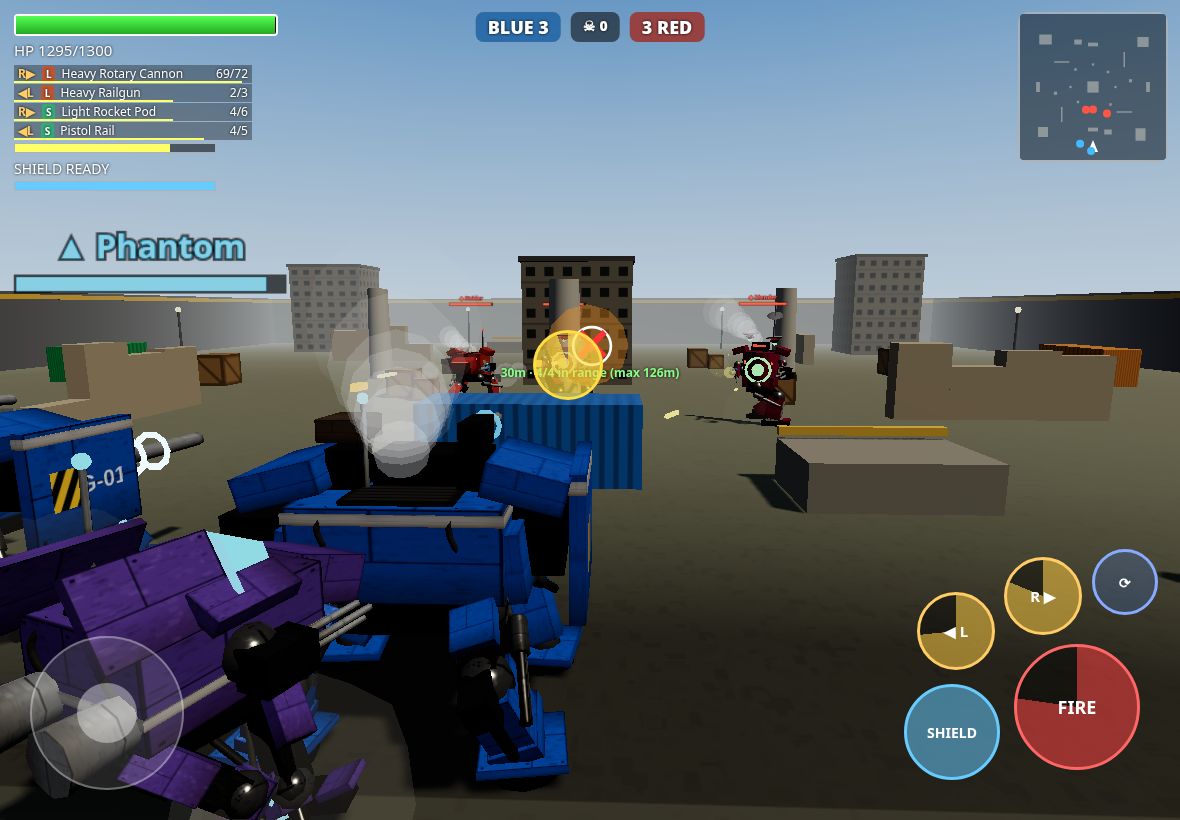
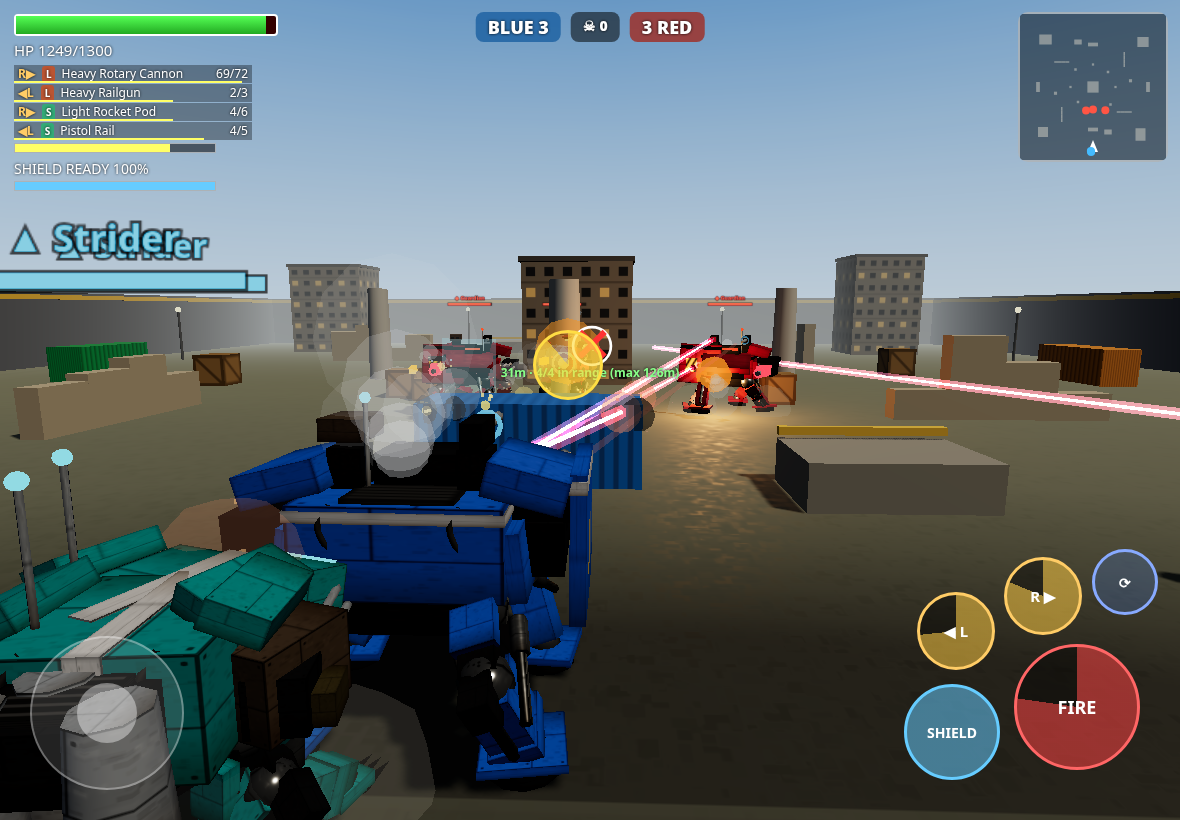
v14: higher Strider jump, longer swept Phantom dash, toggle Guardian shield arm, laser weapon family (S/M/L) with heat

diff --git a/game.js b/game.js
@@ -1,5 +1,5 @@
 import * as THREE from './three.module.js';
-// ======================= CONFIG (tune here) =======================
+/*v14 lasers+shield toggle*/ // ======================= CONFIG (tune here) =======================
 const CFG={
  cam:{dist:7,height:5.4,side:2.2,lookAhead:12,aimMaxYaw:0.6,aimMaxPitch:0.5,aimTurn:20,pitchLift:5,shakeStep:0.06,shakeLand:0.25,shakeHit:0.12,shakeDecay:7},
  gravity:26, legTurn:6,
@@ -10,11 +10,11 @@ const CFG={
  fx:{debris:8,smokeWreck:0.35,maxFx:260},
  mechs:{
   guardian:{name:'Guardian',hp:1300,speed:7.5,mass:1.3,color:0x3a6fd5,enemyColor:0xa8322a,
-   ability:'SHIELD',desc:'Heavy frame. Raise an energy shield that blocks all fire from the front. Moves at 50% speed while shielded.',
-   shield:{hp:700,dur:6,cd:9,slow:0.5,unfold:0.3}},
+   ability:'SHIELD',desc:'Heavy frame. Toggle: swing the shield arm into a guard that blocks all fire from the front until you lower it. Shield energy drains when hit and recharges while lowered. Moves at 50% speed while raised.',
+   shield:{hp:900,cd:6,slow:0.5,unfold:0.5,regen:75,regenDelay:1.5,min:0.25}},
   strider:{name:'Strider',hp:950,speed:10,mass:0.9,color:0x1f9a9a,enemyColor:0xc0452a,
    ability:'JUMP',desc:'Agile frame. Jump-jets launch you over cover and onto containers and platforms.',
-   jump:{vel:15,cd:4,airSpeed:1.25}},
+   jump:{vel:19.6,cd:4.5,airSpeed:1.3,airCtl:0.65}},
   mender:{name:'Mender',hp:850,speed:9,mass:1,color:0x3d8a3a,enemyColor:0x9a2f45,
    ability:'REGEN',desc:'Repair frame. After 3s without taking damage, auto-repairs 60 HP per second.',
    regen:{delay:3,rate:60}},
@@ -58,12 +58,12 @@ S.add(dl,dl.target);
 const SUN=new THREE.Vector3(30,50,20).normalize();
 // ======================= PROGRESSION: coins, upgrades, unlocks, paints =======================
 CFG.mechs.phantom={name:'Phantom',hp:900,speed:9.5,mass:0.95,color:0x6b4fa8,enemyColor:0x9a2a50,ability:'DASH',
- desc:'Stealth raider. Fires a burst of thrusters for a lightning-fast dash in the direction you are moving.',dash:{speed:34,dur:0.22,cd:5}};
+ desc:'Stealth raider. Fires a burst of thrusters for a lightning-fast dash in the direction you are moving.',dash:{speed:40,dur:0.32,cd:5}};
 CFG.weapons.shotgun={name:'Scattergun',desc:'Close-range shotgun: 9 heavy pellets per blast. Devastating up close, useless far away.',
  dmg:15,pellets:9,interval:0.8,range:28,mag:6,reload:3.2,spread:0.11,speed:150,aiBurst:1,kick:0.7,jolt:0.07};
 CFG.econ={win:100,loss:25,kill:20,capture:60,duelMul:{easy:0.7,normal:1,hard:1.5},
  upCost:[0,150,300,550,900],// cost to go from level i to i+1 (index = current level)
- locked:{phantom:800,shotgun:700,minigun_l:600,railgun_s:250,railgun_l:900,hornet_s:250,hornet_l:800,shotgun_s:400,shotgun_l:1000},paintCost:250,enemyScale:0.15};
+ locked:{phantom:800,shotgun:700,minigun_l:600,railgun_s:250,railgun_l:900,hornet_s:250,hornet_l:800,shotgun_s:400,shotgun_l:1000,laser_s:450,laser:750,laser_l:1200},paintCost:250,enemyScale:0.15};
 CFG.paints={default:{name:'Factory',col:null},desert:{name:'Desert Camo',col:0xb59a68,camo:[0x8a7048,0xd8c08a]},
  arctic:{name:'Arctic Camo',col:0xdfe6ea,camo:[0x9aa7b0,0xffffff]},jungle:{name:'Jungle Camo',col:0x4c6a34,camo:[0x2b3d1f,0x7a8a4a]},
  gold:{name:'Gold',col:0xd4a530,metal:0.9},stealth:{name:'Stealth Black',col:0x26262c,rough:0.8}};
@@ -75,11 +75,15 @@ const VAR={minigun:{S:['Light SMG','Compact rapid-fire SMG. Light and quick to r
  railgun:{S:['Pistol Rail','Light rail sidearm. Quick precise shots, modest punch.'],L:['Heavy Railgun','Artillery-grade rail. Crushing long-range slugs, slow cycle.']},
  hornet:{S:['Light Rocket Pod','Small lock-on rocket pod.'],L:['Missile Battery','Heavy lock-on battery. Big warheads, wide splash.']},
  shotgun:{S:['Scatter Pistol','Short-range sidearm shotgun.'],L:['Heavy Scattergun','Massive close-range blast.']}};
+CFG.weapons.laser={name:'Beam Laser',desc:'Continuous hitscan beam. Damage ticks while you hold fire; builds heat and locks out on overheat.',fam:'laser',size:'M',
+ dmg:9,interval:0.1,range:62,mag:1,reload:3,spread:0,speed:999,hitscan:true,beam:true,heat:0.25,cool:0.4,color:0xff3050,kick:0.03,jolt:0.004,aiBurst:22};
+VAR.laser={S:['Pulse Laser','Light beam sidearm. Low heat, quick cool-down.'],L:['Heavy Lance','Searing heavy beam. Huge damage and reach, runs hot.']};
 for(const f of Object.keys(VAR))for(const z of['S','L']){const b=CFG.weapons[f],q=SIZES[z],W=Object.assign({},b,{name:VAR[f][z][0],desc:VAR[f][z][1],fam:f,size:z});
  W.dmg=+(b.dmg*q.dmg).toFixed(1);W.interval=+(b.interval*q.int).toFixed(3);W.range=Math.round(b.range*q.range);W.reload=+(b.reload*q.reload).toFixed(2);W.mag=Math.max(2,Math.round(b.mag*q.mag));
- if(W.splash)W.splash=+(b.splash*(z==='L'?1.4:.75)).toFixed(1);if(W.spin)W.spin=b.spin*(z==='L'?1.6:.6);W.kick=b.kick*q.sc;W.jolt=b.jolt*q.dmg;CFG.weapons[f+'_'+z.toLowerCase()]=W;}
+ if(W.splash)W.splash=+(b.splash*(z==='L'?1.4:.75)).toFixed(1);if(W.spin)W.spin=b.spin*(z==='L'?1.6:.6);W.kick=b.kick*q.sc;W.jolt=b.jolt*q.dmg;if(W.beam){W.mag=1;W.interval=0.1;W.dmg=+(b.dmg*(z==='S'?.68:1.5)).toFixed(1);W.heat=z==='S'?.22:.3;W.cool=z==='S'?.5:.33;W.color=z==='S'?0xff60a0:0xff5020;W.aiBurst=z==='S'?26:18;}
+ CFG.weapons[f+'_'+z.toLowerCase()]=W;}
 // stable display order: family, then S/M/L
-{const o={};for(const f of['minigun','railgun','hornet','shotgun'])for(const k of[f+'_s',f,f+'_l'])o[k]=CFG.weapons[k];CFG.weapons=o;}
+{const o={};for(const f of['minigun','railgun','hornet','shotgun','laser'])for(const k of[f+'_s',f,f+'_l'])o[k]=CFG.weapons[k];CFG.weapons=o;}
 // hardpoints per mech (s = side: -1 left group, +1 right group). A slot takes its size or smaller.
 CFG.slots={guardian:[{z:'L',s:1,n:'Right arm'},{z:'L',s:-1,n:'Left arm'},{z:'S',s:1,n:'Right shoulder'},{z:'S',s:-1,n:'Left shoulder'}],
  strider:[{z:'M',s:1,n:'Right arm'},{z:'M',s:-1,n:'Left arm'}],mender:[{z:'M',s:1,n:'Right arm'},{z:'S',s:-1,n:'Left arm'}],phantom:[{z:'M',s:1,n:'Right arm'},{z:'S',s:-1,n:'Left arm'}]};
@@ -324,9 +328,10 @@ function mech(team,type,slots){const T=CFG.mechs[type],F=FRAMES[type];const col=
   add(top,boxG,dk,1.3,.5,1.0,0,tY+.25,.35);add(top,boxG,tm.visor,1.1,.14,.05,0,tY+.3,.86);vent=add(top,boxG,ventMat,1.6,.12,.8,0,tY+.01,-.7);
   for(const s of[-1,1]){const pv=grp(top,s*(tw[0]/2+.1),tY+.05,0);add(pv,boxG,m,1.2,.5,1.9,s*.15,.15,0,0,0,s*-.25);pads.push(pv);}
   // shield arm (left): shoulder joint + strut + heavy plate on a lag pivot
-  const sa=grp(top,-tw[0]/2-.35,cy+.2,.2);add(sa,jointG,jm,1.3,1.3,1.3,0,0,0);add(sa,boxG,dk,.35,.35,1.2,-.25,0,.2);
-  const sp=add(sa,boxG,m,.25,2.3,2.4,-.62,-.35,.45);add(sa,boxG,tm.stripe,.27,.2,2.42,-.62,.6,.45);if(hi){const dc=add(sa,planeG,decalMat(team,type),1.6,.8,1,-.76,-.45,.45,0,-Math.PI/2,0);}
-  arms.push({pv:sa,kind:'shield'});
+  const sa=grp(top,-tw[0]/2-.35,cy+.2,.2);add(sa,jointG,jm,1.3,1.3,1.3,0,0,0);add(sa,boxG,dk,.35,.35,1.2,-.25,0,.3);
+  const se=grp(sa,-.25,0,.9);add(se,jointG,jm,.9,.9,.9,0,0,0);add(se,boxG,dk,.3,.3,.6,-.2,0,-.1);
+  const sp=add(se,boxG,m,.25,2.3,2.4,-.37,-.35,-.45);add(se,boxG,tm.stripe,.27,.2,2.42,-.37,.6,-.45);if(hi){const dc=add(se,planeG,decalMat(team,type),1.6,.8,1,-.51,-.45,-.45,0,-Math.PI/2,0);}
+  arms.push({pv:sa,el:se,kind:'shield'});
   shield=add(top,shieldG,shieldMat,1.15,1,1.15,0,.8,0);shield.visible=false;}
  else if(type==='strider'){// hunched predator cockpit, forward nose, dorsal jet pack
   add(top,boxG,m,tw[0],tw[1],tw[2],0,cy,0);add(top,boxG,m,1.3,.7,1.1,0,cy-.05,tw[2]/2+.45,.25,0,0);add(top,boxG,tm.visor,1.0,.16,.05,0,cy+.12,tw[2]/2+1.0,.25,0,0);
@@ -355,7 +360,7 @@ function mech(team,type,slots){const T=CFG.mechs[type],F=FRAMES[type];const col=
  antP=new THREE.Group();antP.position.set(type==='mender'?.55:.6,tY+(type==='mender'?.5:.1),-.5);top.add(antP);add(antP,antG,MS.metal,1,type==='mender'?1.8:1,1,0,type==='mender'?1.1:.65,0);
  add(antP,jointG,tm.visor,.25,.25,.25,0,type==='mender'?2.25:1.3,0);if(type==='mender')add(antP,dishG,MS.metal,1,1,1,0,1.5,0,.5,0,0);
  // ---- weapon hardpoints (CFG.slots order); each mount builds its own weapon model, scaled by size ----
- const guns=[],flash=[],spinners=[],kickers=[];const MZ={minigun:2.0,railgun:3.0,hornet:.9,shotgun:1.7};let coil=null;
+ const guns=[],flash=[],spinners=[],kickers=[];const MZ={minigun:2.0,railgun:3.0,hornet:.9,shotgun:1.7,laser:2.2};let coil=null;
  if(typeof slots==='string')slots=CFG.slots[type].map(()=>slots);
  CFG.slots[type].forEach((sl,i)=>{const s=sl.s,k=slots[i]||CFG.defSlots[type][i],Wd=CFG.weapons[k],wpn=Wd.fam,z=Wd.size,sc=SIZES[z].sc,big=z==='L',sm=z==='S';let x,y,z0;
   if(type==='guardian'&&sl.z==='S'){x=s*.95;y=tY+.85;z0=-.25;add(top,boxG,dk,.5,.6,.5,x,tY+.35,z0);}
@@ -368,6 +373,9 @@ function mech(team,type,slots){const T=CFG.mechs[type],F=FRAMES[type];const col=
   else if(wpn==='railgun'){cm=new THREE.MeshStandardMaterial({color:0x2a5070,emissive:0x50c0ff,emissiveIntensity:.2,metalness:.5,roughness:.3});coil=coil||cm;
    add(kb,boxG,dk,.45,.6,1.3,0,0,.1);const bb=add(kb,barrelG,MS.metal,1.3,sm?1.4:2,1.3,0,0,sm?1.3:1.7);bb.rotation.x=Math.PI/2;for(const zz of(big?[1.0,1.5,2.0]:sm?[1.0]:[1.1,1.8]))add(kb,coilG,cm,1,1,1,0,0,zz);
    if(big){add(kb,boxG,dk,.7,.25,1.6,0,.42,.3);add(kb,boxG,lm,.08,.08,.5,0,.56,.3);}}
+  else if(wpn==='laser'){cm=new THREE.MeshStandardMaterial({color:0x501018,emissive:0xff3050,emissiveIntensity:.5,metalness:.4,roughness:.3});
+   add(kb,boxG,dk,.55,.55,1.2,0,0,.1);const bb=add(kb,barrelG,MS.metal,1.0,sm?1.2:1.6,1.0,0,0,sm?1.1:1.4);bb.rotation.x=Math.PI/2;
+   for(const zz of(big?[.8,1.25,1.7]:sm?[.9]:[.9,1.5]))add(kb,boxG,cm,.42,.42,.1,0,0,zz);add(kb,cylG,cm,.22,.15,.22,0,0,(MZ.laser-.05),Math.PI/2,0,0);if(big)add(kb,boxG,dk,.7,.2,1.4,0,.38,.2);}
   else if(wpn==='shotgun'){add(kb,boxG,dk,.6,.55,1.1,0,0,.1);const bx=big?[-.2,0,.2]:sm?[0]:[-.14,.14];for(const xx of bx){const bb=add(kb,barrelG,MS.metal,1.5,sm?.8:1.2,1.5,xx,0,sm?.8:1.1);bb.rotation.x=Math.PI/2;}add(kb,boxG,MS.metal,.5,.12,.5,0,-.3,.9);}
   else{const n=big?3:2,rows=sm?1:2;add(kb,boxG,M(0x665544),.45*n,.42*rows+.05,1.1,0,.1,.1);for(let r=0;r<rows;r++)for(let c=0;c<n;c++){const tb=add(kb,tubeG,MS.dark,1,1,1,(c-(n-1)/2)*.4,.1+(r-(rows-1)/2)*.4,.68);tb.rotation.x=Math.PI/2;}}
   const fl=add(pv,flashG,MS.flash,sc,sc,sc,0,0,(MZ[wpn]+.4)*sc);fl.rotation.x=-Math.PI/2;fl.visible=false;flash.push(fl);pv.userData={mz:MZ[wpn]*sc,spin:spn,coil:cm};top.add(pv);guns.push(pv);});
@@ -423,7 +431,7 @@ function animMech(u,dt){const G=CFG.gait,p=u.g.position,v=u.vel,sp=Math.hypot(v.
  const ca=Math.cos(u.tYaw),sa=Math.sin(u.tYaw),ax=u.acc.x*ca-u.acc.z*sa,az=u.acc.x*sa+u.acc.z*ca;
  u.jgV.x+=(-90*u.jg.x-7*u.jgV.x-ax*0.4-u.tYawV*1.5)*dt;u.jgV.z+=(-90*u.jg.z-7*u.jgV.z+az*0.4+u.dip*3)*dt;u.jg.x+=u.jgV.x*dt;u.jg.z+=u.jgV.z*dt;
  u.antP.rotation.set(u.jg.z*0.8,0,u.jg.x*0.8);for(const pd of u.pads)pd.rotation.set(u.jg.z*0.3,u.jg.x*0.25,0);
- u.armT=(u.armT||0)+dt;for(const a of u.arms){if(a.kind==='shield'){a.pv.rotation.set(u.jg.z*0.5-u.shA*0.4,u.jg.x*0.4+u.shA*0.5,u.jg.x*0.2);continue;}
+ u.armT=(u.armT||0)+dt;for(const a of u.arms){if(a.kind==='shield'){const e=u.shA*u.shA*(3-2*u.shA);a.pv.rotation.set(u.jg.z*0.5-e*0.2,u.jg.x*0.4+e*1.2,u.jg.x*0.2-e*.05);a.el.rotation.set(0,e*0.45,0);continue;}
   const w=u.armT*1.6+a.s;a.sh.rotation.set(-.35+Math.sin(w)*.25+u.jg.z*.6,a.s*(.35+Math.sin(w*.7)*.2)+u.jg.x*.5,0);a.el.rotation.set(.7+Math.sin(w*1.3)*.35,-a.s*.4,0);a.tool.rotation.z+=dt*8;
   a.tl.visible=Math.sin(w*5)>0;}
  for(const d of u.drones){const t=u.armT*1.3+d.ph,dg=d.g;d.p.set(Math.cos(t)*2.4,4.6+Math.sin(t*2)*.35,Math.sin(t)*2.4);dg.position.x+=(d.p.x-dg.position.x)*Math.min(1,dt*4);dg.position.y+=(d.p.y-dg.position.y)*Math.min(1,dt*4);dg.position.z+=(d.p.z-dg.position.z)*Math.min(1,dt*4);
@@ -434,10 +442,10 @@ function animMech(u,dt){const G=CFG.gait,p=u.g.position,v=u.vel,sp=Math.hypot(v.
  for(const w of u.ws){if(w.spinner)w.spinner.rotation.z+=dt*35*w.spin;if(w.coil){const ch=w.reload?0:Math.max(0,1-w.fireCd/w.W.interval);w.coil.emissiveIntensity=0.15+3*ch*ch;}}
  if(u.ventT>0){u.ventT-=dt;if(Math.random()<.5){u.vent.getWorldPosition(_w);fx(_w,.5,0xdde4ea,{vy:3.5,grow:2.5,life:.8,op:.45});}}
  if(u.flashT>0){u.flashT-=dt;if(u.flashT<=0)u.flash.forEach(f=>f.visible=false);}
- for(const j of u.jets){j.visible=(u.air&&u.vy>-4)||u.dashT>0;j.scale.y=1.2+Math.random()*.8;}
+ for(const j of u.jets){j.visible=(u.air&&u.vy>-4)||u.dashT>0;j.scale.y=(u.dashT>0?2.2:1.2)+Math.random()*(u.dashT>0?1.4:.8);j.scale.x=j.scale.z=u.dashT>0?1.5:1;}
  if(u.air&&u.vy>-4&&u.jets.length&&Math.random()<.6){u.jets[0].getWorldPosition(_w);fx(_w,.5,0xffaa55,{vy:-6,grow:2,life:.35,op:.7});}
  // shield unfold/retract
- if(u.shield){const t=u.shieldOn?1:0,r=1/u.T.shield.unfold;u.shA+=Math.sign(t-u.shA)*Math.min(Math.abs(t-u.shA),r*dt);u.shield.visible=u.shA>0.02;u.shield.scale.set(Math.max(.05,u.shA),0.25+0.75*u.shA,Math.max(.05,u.shA));}
+ if(u.shield){const t=u.shieldOn?1:0,r=1/u.T.shield.unfold;u.shA+=Math.sign(t-u.shA)*Math.min(Math.abs(t-u.shA),r*dt);u.shUp=u.shieldOn&&u.shA>=1;u.shG=(u.shG||0)+((u.shUp?1:0)-(u.shG||0))*Math.min(1,dt*10);u.shield.visible=u.shG>0.03;u.shield.scale.set(Math.max(.05,u.shG),0.25+0.75*u.shG,Math.max(.05,u.shG));}
  if(u.hp<u.max*.35){u.smokeT-=dt;if(u.smokeT<=0){u.smokeT=.15;u.top.getWorldPosition(_w);_w.y+=1.5;fx(_w,.6,0x333333,{vy:3,grow:2.5,life:1.4,op:.6});}}
  if(u.plate)updPlate(u);}
 function footstep(u,f){if(FX.length<CFG.fx.maxFx*.8)fx(_w.set(f.x,f.y+.2,f.z),.9*(u.T.mass||1),0x9a927e,{grow:2.2,life:.5,op:.45});
@@ -472,7 +480,7 @@ let settings={mode:'team',diff:'normal',gfx:'high',map:'random'};try{Object.assi
 function saveLoadout(){try{loadout.weapon=slotsOf(loadout.mech)[0];localStorage.setItem(LS,JSON.stringify(loadout));localStorage.setItem(LS2,JSON.stringify(settings));}catch(e){}}
 function makeUnit(team,type,slots,prof){if(typeof slots==='string')slots=CFG.slots[type].map(sl=>adapt(slots,sl,false));const me=team==='b'&&!prof,T=me?upMech(type):CFG.mechs[type];let pr=prof?Object.assign({},CFG.diff[prof]):null;
  if(pr&&team==='r'){const k=1+CFG.econ.enemyScale*progress();pr.hpMul*=k;pr.dmgMul*=k;pr.scale=k;}const u=mech(team,type,slots);
- u.ws=slots.map((k,i)=>{const W=me?upWpn(k):CFG.weapons[k],gd=u.guns[i].userData;return {k,W,gi:i,s:CFG.slots[type][i].s,ammo:W.mag,reload:0,fireCd:0,spin:0,burst:0,cd:Math.random()*1.5,spinner:gd.spin,coil:gd.coil};});
+ u.ws=slots.map((k,i)=>{const W=me?upWpn(k):CFG.weapons[k],gd=u.guns[i].userData;return {k,W,gi:i,s:CFG.slots[type][i].s,heat:0,beamT:0,ammo:W.mag,reload:0,fireCd:0,spin:0,burst:0,cd:Math.random()*1.5,spinner:gd.spin,coil:gd.coil};});
  const pw=u.ws.slice().sort((a,b)=>SIZES[b.W.size].r-SIZES[a.W.size].r||b.W.range-a.W.range)[0].W,wpn=slots[0];
  Object.assign(u,{team,type,wpn,T,W:pw,prof:pr,alive:true,hp:T.hp*(pr?pr.hpMul:1),speed:T.speed*(pr?pr.speedMul:1)*weightMul(type,slots),
   shieldOn:false,shA:0,shieldHP:T.shield?T.shield.hp:0,shieldT:0,abCd:0,vy:0,air:false,lastHit:-99,lockT:0,lockTgt:null,cd:1+Math.random()*2,burst:0,think:0,goal:null,
@@ -540,15 +548,15 @@ addEventListener('touchstart',unlockAudio,{passive:true});addEventListener('mous
 function sfx(k){if(!AC||AC.state!=='running')return;const t=AC.currentTime,o=AC.createOscillator(),g=AC.createGain();o.type='sine';const big=k==='boom';
  o.frequency.setValueAtTime(big?90:70,t);o.frequency.exponentialRampToValueAtTime(big?30:38,t+(big?.6:.18));g.gain.setValueAtTime(big?.5:.22,t);g.gain.exponentialRampToValueAtTime(.001,t+(big?.7:.2));o.connect(g).connect(AC.destination);o.start(t);o.stop(t+(big?.75:.22));}
 function muzzle(u,i){u.flash[i].visible=true;u.flash[i].rotation.z=Math.random()*3;u.flashT=.05;const p=new THREE.Vector3();u.guns[i].updateMatrixWorld(true);return u.guns[i].localToWorld(p.set(0,0,u.guns[i].userData.mz||u.mz));}
-function fireWeapon(u,w,aimPt,homing){if(u===P)STATS.shots++;const W=w.W,pr=u.prof;w.fireCd=W.interval*(pr?pr.fireMul:1)/(W.spin?Math.max(.3,w.spin):1);w.ammo--;
+function fireWeapon(u,w,aimPt,homing){if(w.W.beam)return fireBeam(u,w,aimPt);if(u===P)STATS.shots++;const W=w.W,pr=u.prof;w.fireCd=W.interval*(pr?pr.fireMul:1)/(W.spin?Math.max(.3,w.spin):1);w.ammo--;
  const gi=w.gi,f=muzzle(u,gi);const d=aimPt.clone().sub(f).normalize();
  const s=(W.pellets?0:W.spread)+(pr?pr.spread:0);d.x+=(Math.random()-.5)*s;d.y+=(Math.random()-.5)*s*.6;d.z+=(Math.random()-.5)*s;d.normalize();
  u.kick[gi]=Math.min(1,u.kick[gi]+W.kick);u.jolt=Math.min(.12,u.jolt+W.jolt);if(W.fam==='railgun')u.ventT=.7;
  if(u===P){flashLight(f,W.fam==='railgun'?4:1.5);shake(W.jolt*2);}
  for(let n=0;n<(W.pellets||1);n++){const dd=n?d.clone().add(new THREE.Vector3((Math.random()-.5)*W.spread,(Math.random()-.5)*W.spread*.5,(Math.random()-.5)*W.spread)).normalize():d;shoot(f,dd,u,homing,W);}if(w.ammo<=0)w.reload=W.reload;}
 function frontal(u,pos){const p=u.g.position,dx=pos.x-p.x,dz=pos.z-p.z,l=Math.hypot(dx,dz)||1;return (dx*Math.sin(u.tYaw)+dz*Math.cos(u.tYaw))/l>0.25;}
-function dropShield(u){if(!u.shieldOn)return;u.shieldOn=false;u.abCd=u.T.shield.cd;}
-function hurt(u,d,pos,src){if(!u||!u.alive)return;if(u.shieldOn&&pos&&frontal(u,pos)){u.shieldHP-=d;sparks(pos,0x80e0ff);if(u.shieldHP<=0)dropShield(u);return;}
+function dropShield(u,broken){if(!u.shieldOn)return;u.shieldOn=false;u.abCd=broken?u.T.shield.cd:Math.max(u.abCd,.4);}
+function hurt(u,d,pos,src){if(!u||!u.alive)return;if(u.shieldOn&&u.shA>=1&&pos&&frontal(u,pos)){u.shieldHP-=d;u.shHit=clock;if(Math.random()<.5||d>20)sparks(pos,0x80e0ff);if(u.shieldHP<=0){u.shieldHP=0;dropShield(u,true);}return;}
  u.hp-=d;u.lastHit=clock;if(src)u.lastAtt=src;const H=CFG.hitReact;
  if(pos){const p=u.g.position,dx=pos.x-p.x,dz=pos.z-p.z,c=Math.cos(u.tYaw),s=Math.sin(u.tYaw),lz=dx*s+dz*c,lx=dx*c-dz*s,l=Math.hypot(lx,lz)||1,k=Math.min(H.maxFlinch,d*H.flinch);
   u.fl.x+=lz/l*k;u.fl.z+=-lx/l*k;}// torso tips away from the impact
@@ -559,23 +567,32 @@ function killUnit(u,src){if(!u.alive)return;u.alive=false;u.hp=0;u.dying=0;if(u.
  if(src&&src!==u){src.kills++;if(src===P)STATS.kills++;}for(const x of U)if(x.lockTgt===u)x.lockTgt=null;
  if(u===P&&mode==='play'){const a=mates('b')[0];if(a)SPEC=a;}}
 function ability(u){if(!u||!u.alive||mode!=='play')return;const T=u.T;
- if(T.shield){if(u.shieldOn)dropShield(u);else if(u.abCd<=0){u.shieldOn=true;u.shieldT=T.shield.dur;u.shieldHP=T.shield.hp;}}
+ if(T.shield){if(u.shieldOn)dropShield(u);else if(u.abCd<=0&&u.shieldHP>=T.shield.hp*T.shield.min&&u.shA<=0.5){u.shieldOn=true;if(u===P)sfx('step');}}
  else if(T.jump){if(!u.air&&u.abCd<=0&&u.jumpWind<=0){u.jumpWind=CFG.gait.crouchJump;u.abCd=T.jump.cd;}}
  else if(T.dash&&u.abCd<=0&&!u.air){let x=u.vel.x,z=u.vel.z,l=Math.hypot(x,z);if(l<.5){x=Math.sin(u.tYaw);z=Math.cos(u.tYaw);l=1;}u.dashD={x:x/l,z:z/l};u.dashT=T.dash.dur;u.abCd=T.dash.cd;u.crouch=Math.max(u.crouch,.5);
   fx(u.g.position.clone().setY(.4),2.2,0x9a927e,{grow:2.5,life:.5,op:.5});if(u===P){shake(.18);sfx('step');}}}
 function tickUnit(u,dt){const T=u.T;u.abCd=Math.max(0,u.abCd-dt);for(const w of u.ws)w.fireCd-=dt;u.stagT=Math.max(0,u.stagT-dt);
  if(u.jumpWind>0){u.jumpWind-=dt;if(u.jumpWind<=0){u.vy=T.jump.vel;u.air=true;fx(u.g.position.clone().setY(u.g.position.y+.5),2,0xffaa44);fx(u.g.position.clone().setY(u.g.position.y+.3),2.5,0x9a927e,{grow:2,life:.6,op:.5});}}
- for(const w of u.ws)if(w.reload>0){w.reload-=dt;if(w.reload<=0){w.reload=0;w.ammo=w.W.mag;}}
- if(u.shieldOn){u.shieldT-=dt;if(u.shieldT<=0)dropShield(u);}
+ for(const w of u.ws)if(w.reload>0){w.reload-=dt;if(w.reload<=0){w.reload=0;w.ammo=w.W.mag;if(w.W.beam)w.heat=.35;}}
+ if(T.shield&&!u.shieldOn&&clock-(u.shHit||-99)>T.shield.regenDelay)u.shieldHP=Math.min(T.shield.hp,u.shieldHP+T.shield.regen*dt);
+ for(const w of u.ws)if(w.W.beam){w.beamT=(w.beamT||0)-dt;if(w.beamT<=0)w.heat=Math.max(0,(w.heat||0)-w.W.cool*dt);}
  if(T.regen&&clock-u.lastHit>T.regen.delay&&u.hp<u.max&&u.hp>0)u.hp=Math.min(u.max,u.hp+T.regen.rate*(u.prof?u.prof.hpMul:1)*dt);
  const p=u.g.position,gy=groundAt(p.x,p.z,p.y);
- if(u.air||p.y>gy+.01){u.air=true;u.vy-=CFG.gravity*dt;p.y+=u.vy*dt;if(p.y<=gy){const iv=-u.vy;p.y=gy;u.vy=0;u.air=false;u.crouch=Math.min(1,Math.max(u.crouch,iv/18));
+ if(u.air||p.y>gy+.01){u.air=true;u.vy-=CFG.gravity*dt;p.y+=u.vy*dt;if(p.y<=gy){const iv=-u.vy;p.y=gy;u.vy=0;u.air=false;u.crouch=Math.min(1,Math.max(u.crouch,iv/16));u.dip=Math.min(.6,iv/40);unstick(u);
    fx(p.clone().setY(gy+.3),2.2,0x9a927e,{grow:2.5,life:.6,op:.55});if(u===P){shake(CFG.cam.shakeLand*Math.min(1,iv/15));sfx('step');}}}}
+// never end up inside a box or past the arena edge (after landing/dash): nudge to the nearest free spot
+function unstick(u){const p=u.g.position;p.x=Math.max(-A+2,Math.min(A-2,p.x));p.z=Math.max(-A+2,Math.min(A-2,p.z));if(!blocked(p.x,p.z,1.2,p.y))return;
+ for(let r=1;r<=12;r+=1)for(let a=0;a<16;a++){const x=p.x+Math.sin(a*Math.PI/8)*r,z=p.z+Math.cos(a*Math.PI/8)*r;if(Math.abs(x)<A-2&&Math.abs(z)<A-2&&!blocked(x,z,1.6,p.y)){p.x=x;p.z=z;p.y=Math.max(groundAt(x,z,p.y+.01),0);return;}}}
 function speedOf(u){return u.speed*(u.shieldOn?u.T.shield.slow:1)*(u.air&&u.T.jump?u.T.jump.airSpeed:1)*(u.stagT>0?CFG.move.staggerSlow:1)*(u.jumpWind>0?0.3:1);}
 // inertia: velocity ramps toward the wanted velocity, heavier mechs ramp slower
-function drive(u,wx,wz,dt){if(u.dashT>0){u.dashT-=dt;const s=u.T.dash.speed;wx=u.dashD.x;wz=u.dashD.z;u.vel.set(wx*s,0,wz*s);const p=u.g.position,nx=p.x+u.vel.x*dt,nz=p.z+u.vel.z*dt;if(!blocked(nx,p.z,1.6,p.y))p.x=nx;if(!blocked(p.x,nz,1.6,p.y))p.z=nz;p.x=Math.max(-A+2,Math.min(A-2,p.x));p.z=Math.max(-A+2,Math.min(A-2,p.z));if(u.dashT<=0)u.vel.multiplyScalar(.35);return;}
+function drive(u,wx,wz,dt){if(u.dashT>0){u.dashT-=dt;const s=u.T.dash.speed;wx=u.dashD.x;wz=u.dashD.z;u.vel.set(wx*s,0,wz*s);const p=u.g.position,n=Math.max(1,Math.ceil(s*dt/.4)),sx=u.vel.x*dt/n,sz=u.vel.z*dt/n;let hitW=false;
+  for(let i=0;i<n;i++){const nx=p.x+sx,nz=p.z+sz;if(!blocked(nx,p.z,1.6,p.y))p.x=nx;else hitW=true;if(!blocked(p.x,nz,1.6,p.y))p.z=nz;else hitW=true;}// swept sub-steps: can't tunnel through walls
+  p.x=Math.max(-A+2,Math.min(A-2,p.x));p.z=Math.max(-A+2,Math.min(A-2,p.z));
+  if(Math.random()<.8)fx(p.clone().setY(p.y+2.2+Math.random()),1.1,0xb090ff,{life:.45,grow:1.8,op:.55});if(Math.random()<.5)fx(p.clone().setY(p.y+.3),1.4,0x9a927e,{life:.5,grow:2,op:.4});
+  if(hitW&&u.dashT>.05){u.dashT=Math.min(u.dashT,.05);}
+  if(u.dashT<=0)u.vel.multiplyScalar(.35);return;}
  const K=CFG.move,m=u.T.mass||1,sp=speedOf(u),tx=wx*sp,tz=wz*sp,v=u.vel;const ox=v.x,oz=v.z;
- const dx=tx-v.x,dz=tz-v.z,dl=Math.hypot(dx,dz),rate=(Math.hypot(tx,tz)>Math.hypot(v.x,v.z)?K.accel:K.decel)/m*(u.air?.4:1)*dt;
+ const dx=tx-v.x,dz=tz-v.z,dl=Math.hypot(dx,dz),rate=(Math.hypot(tx,tz)>Math.hypot(v.x,v.z)?K.accel:K.decel)/m*(u.air?(u.T.jump?u.T.jump.airCtl:.4):1)*dt;
  if(dl>rate){v.x+=dx/dl*rate;v.z+=dz/dl*rate;}else{v.x=tx;v.z=tz;}
  const p=u.g.position,r=1.6,nx=p.x+v.x*dt,nz=p.z+v.z*dt;if(!blocked(nx,p.z,r,p.y))p.x=nx;else v.x=0;if(!blocked(p.x,nz,r,p.y))p.z=nz;else v.z=0;
  p.x=Math.max(-A+2,Math.min(A-2,p.x));p.z=Math.max(-A+2,Math.min(A-2,p.z));
@@ -626,8 +643,10 @@ function aiTick(u,dt){const pr=u.prof,W=u.W,p=u.g.position,eye=eyeOf(u,new THREE
    else u.goal=new THREE.Vector3((Math.random()-.5)*A*1.4,0,(Math.random()-.5)*A*1.4);}
   // abilities
   if(Math.random()<pr.ability){if(u.T.jump&&t&&(!see||clock-u.lastHit<1))ability(u);if(u.T.dash&&t&&clock-u.lastHit<.6)ability(u);}
-  if(pr.ability>=1&&u.T.shield&&u.shieldOn&&!(clock-u.lastHit<1.5))dropShield(u);}
- if(u.T.shield&&!u.shieldOn&&u.abCd<=0&&clock-u.lastHit<.4&&t&&see&&Math.random()<pr.ability*dt*20)ability(u);
+}
+ if(u.T.shield){const S_=u.T.shield,threat=t&&see&&dist<70,hot=clock-Math.max(u.lastHit,u.shHit||-99)<1.2;
+  if(!u.shieldOn&&u.shA<=0&&u.abCd<=0&&threat&&hot&&u.shieldHP>S_.hp*.5&&Math.random()<pr.ability*dt*20)ability(u);
+  else if(u.shieldOn&&(!threat&&clock-(u.shHit||-99)>2.5||u.shieldHP<S_.hp*.2||(u.role==='att'&&!hot&&Math.random()<dt*.3)))ability(u);}
  // move (+ strafing while engaged)
  let wx=0,wz=0;if(u.goal){const dx=u.goal.x-p.x,dz=u.goal.z-p.z,l=Math.hypot(dx,dz);if(l>1.5){wx=dx/l;wz=dz/l;}}
  if(see&&pr.strafe>0&&!u.cover&&dist<W.range){u.strafeT-=dt;if(u.strafeT<=0){u.strafeT=.8+Math.random()*1.4;u.strafeD=-u.strafeD;}const tx=t.g.position.x-p.x,tz=t.g.position.z-p.z,l=Math.hypot(tx,tz)||1;
@@ -644,6 +663,24 @@ function aiTick(u,dt){const pr=u.prof,W=u.W,p=u.g.position,eye=eyeOf(u,new THREE
   w.cd-=dt;if(!w.reload&&!see&&w.ammo<X.mag*.3)w.reload=X.reload;
   if(ok&&facing&&w.cd<=0&&!w.reload&&w.fireCd<=0&&(!X.spin||w.spin>.5)){if(w.burst<=0)w.burst=X.aiBurst;
    fireWeapon(u,w,ap,X.homing&&u.lockT>X.lockTime?t:null);w.burst--;if(w.burst<=0||w.reload){w.burst=0;const bp=pr.burstPause;w.cd=bp[0]+Math.random()*(bp[1]-bp[0]);}}}}
+
+// ---------- lasers (v14): continuous hitscan beam, heat instead of a magazine ----------
+const lbG=new THREE.CylinderGeometry(1,1,1,6,1,true);lbG.rotateX(Math.PI/2);const scG=new THREE.CircleGeometry(1,10);scG.rotateX(-Math.PI/2);const scM=new THREE.MeshBasicMaterial({color:0x111111,transparent:true,opacity:.6,depthWrite:false});const SCORCH=[];
+function fireBeam(u,w,aimPt){const W=w.W,pr=u.prof;w.fireCd=W.interval*(pr?pr.fireMul:1);if(u===P&&Math.random()<.1)STATS.shots++;
+ const gi=w.gi,f=muzzle(u,gi),d=aimPt.clone().sub(f).normalize();const s=(pr?pr.spread*.4:0);d.x+=(Math.random()-.5)*s;d.y+=(Math.random()-.5)*s*.5;d.z+=(Math.random()-.5)*s;d.normalize();
+ const sw=sweep(f,d,W.range,u.team),L=sw?sw.t:W.range,end=f.clone().addScaledVector(d,L);
+ if(sw&&sw.u){hurt(sw.u,W.dmg*(pr?pr.dmgMul:1)*(CFG.firepower[u.type]||1),end,u);if(u===P){STATS.hits+=.1;hitMarkT=.12;}}
+ w.heat=Math.min(1,(w.heat||0)+W.heat*W.interval*(u===P?1:.9));w.beamT=.13;if(w.heat>=1){w.reload=W.reload;w.burst=0;if(u===P)toast('OVERHEAT');}
+ u.kick[gi]=Math.min(.3,u.kick[gi]+W.kick);
+ if(!w.bm){const z=SIZES[W.size].sc;w.bm=new THREE.Group();const core=new THREE.Mesh(lbG,new THREE.MeshBasicMaterial({color:0xffffff,transparent:true,opacity:.95,depthWrite:false,blending:THREE.AdditiveBlending}));core.scale.set(.07*z,.07*z,1);
+  const glow=new THREE.Mesh(lbG,new THREE.MeshBasicMaterial({color:W.color,transparent:true,opacity:.55,depthWrite:false,blending:THREE.AdditiveBlending}));glow.scale.set(.22*z,.22*z,1);w.bm.add(core,glow);w.bm.userData={glow};S.add(w.bm);u.beams=u.beams||[];u.beams.push(w.bm);}
+ const bm=w.bm;bm.visible=true;bm.position.copy(f).lerp(end,.5);bm.scale.set(1+Math.random()*.25,1+Math.random()*.25,L);bm.lookAt(end);bm.userData.t=.13;
+ if(sw&&Math.random()<(gfxLow()?.35:.8)){sparks(end,W.color===0xff3050?0xff8080:0xffb060);if(Math.random()<.4)fx(end,.6,0xff7050,{life:.2,grow:2,op:.8});}
+ if(sw&&!sw.u&&Math.random()<.25)scorch(end,d);}
+function gfxLow(){return settings.gfx==='low';}
+function scorch(p,d){if(SCORCH.length>(gfxLow()?12:40)){const o=SCORCH.shift();S.remove(o);}const m=new THREE.Mesh(scG,scM);m.scale.setScalar(.35+Math.random()*.3);
+ if(p.y<.2){m.position.set(p.x,.04,p.z);}else{m.position.copy(p).addScaledVector(d,-.05);m.lookAt(p.clone().sub(d));m.rotateX(Math.PI/2);}S.add(m);SCORCH.push(m);}
+function tickBeams(dt){for(const u of U)if(u.beams)for(const b of u.beams){b.userData.t-=dt;if(b.userData.t<=0||!u.alive)b.visible=false;}}
 // ---------- loop ----------
 const fwd=new THREE.Vector3(),rt=new THREE.Vector3();
 function outcome(){const md=settings.mode,b=mates('b').length,r=mates('r').length;
@@ -676,6 +713,7 @@ function update(dt){clock+=dt;const k=inp.keys;
  else{P.vel.set(0,0,0);lockEl.style.display='none';}
  for(const u of U)if(u!==P&&u.alive){tickUnit(u,dt);aiTick(u,dt);}
  for(const u of U){if(!u.alive)u.vel.set(0,0,0);animMech(u,dt);}
+ tickBeams(dt);
  // projectiles (friendly fire off: sweeps/splash only test the shooter's foes)
  for(let i=B.length-1;i>=0;i--){const b=B[i],p=b.m.position,W=b.W,sp=W.speed;let hit=false,hitU=null;
   if(b.homing&&b.homing.alive){const tp=b.homing.g.position.clone();tp.y+=3;const want=tp.sub(p).normalize();const cur=b.v.clone().normalize();cur.lerp(want,Math.min(1,W.turnRate*dt)).normalize();b.v.copy(cur).multiplyScalar(sp);b.m.lookAt(p.clone().add(b.v));}
@@ -703,10 +741,10 @@ function updateLock(dt){const hw=P.ws.find(w=>w.W.homing),W=hw?hw.W:P.W;if(!W.ho
  else lockEl.style.display='none';}
 // camera: over-the-shoulder on the player, or on a spectated ally; collision pull-in; shake; sun shadow follows
 const camRay=new THREE.Raycaster(),cO=new THREE.Vector3(),cD=new THREE.Vector3(),want=new THREE.Vector3();
-function cam(dt){if(!P)return;const K=CFG.cam,f=(P.alive||!SPEC)?P:SPEC,p=f.g.position;
+let camAir=0;function cam(dt){if(!P)return;const K=CFG.cam,f=(P.alive||!SPEC)?P:SPEC,p=f.g.position;
  if(f===P)camYaw=P.yaw;else camYaw+=wrap(f.tYaw-camYaw)*Math.min(1,(dt||0)*3);
  const bx=-Math.sin(camYaw),bz=-Math.cos(camYaw),rx=-bz,rz=bx,pit=f===P?P.pitch:.05;
- cO.set(p.x,p.y+K.height,p.z);const ck=P&&P.type==='guardian'?1.35:P&&P.type==='strider'?1.12:1;want.set(p.x+bx*K.dist*ck-rx*K.side*ck,p.y+K.height*(ck>1.2?1.12:1)+pit*K.pitchLift,p.z+bz*K.dist*ck-rz*K.side*ck);
+ const air=f.air?Math.min(1,Math.max(0,f.g.position.y-groundAt(p.x,p.z,p.y)-.5)/6):0;camAir+=(air-camAir)*Math.min(1,(dt||0)*4);cO.set(p.x,p.y+K.height-camAir*1.2,p.z);const ck=P&&P.type==='guardian'?1.35:P&&P.type==='strider'?1.12:1;want.set(p.x+bx*K.dist*ck-rx*K.side*ck,p.y+K.height*(ck>1.2?1.12:1)+pit*K.pitchLift,p.z+bz*K.dist*ck-rz*K.side*ck);
  cD.copy(want).sub(cO);const L=cD.length();cD.normalize();camRay.set(cO,cD);camRay.far=L;const h=camRay.intersectObjects(obstMeshes,false)[0];
  if(h)want.copy(cO).addScaledVector(cD,Math.max(1.2,h.distance-0.4));
  if(dt){shakeA=Math.max(0,shakeA-shakeA*K.shakeDecay*dt-dt*.05);}const s=shakeA*shakeA*0.6;
@@ -731,16 +769,16 @@ function hud(){const W=P.W,T=P.T;hudN++;
  const regen=T.regen&&clock-P.lastHit>T.regen.delay&&P.hp<P.max&&P.alive;hpf.style.background=regen?'linear-gradient(#8fa,#2c6)':'linear-gradient(#5f5,#2a2)';
  info.innerHTML=`HP ${Math.ceil(P.hp)}/${Math.round(P.max)} ${regen?'<b style="color:#6f9">+ REGEN</b>':''}`;
  // per-mount ammo / reload list + group button rings
- const frac=w=>w.reload?1-w.reload/w.W.reload:w.ammo/w.W.mag,grp=g=>{const a=P.ws.filter(w=>w.s===g);return a.length?a.reduce((t,w)=>t+frac(w),0)/a.length:0;};
- if((hudN&3)===0){$('gunt').innerHTML=P.ws.map(w=>`<div class="wl${w.reload?' rl':''}"><b>${w.s<0?'◀L':'R▶'}</b><span class="szb z${w.W.size}">${w.W.size}</span> ${w.W.name}<em>${w.reload?'RELOAD '+w.reload.toFixed(1)+'s':w.ammo+'/'+w.W.mag}</em><i style="width:${frac(w)*100}%"></i></div>`).join('');
+ const frac=w=>w.W.beam?(w.reload?1-w.reload/w.W.reload:1-(w.heat||0)):w.reload?1-w.reload/w.W.reload:w.ammo/w.W.mag,grp=g=>{const a=P.ws.filter(w=>w.s===g);return a.length?a.reduce((t,w)=>t+frac(w),0)/a.length:0;};
+ if((hudN&3)===0){$('gunt').innerHTML=P.ws.map(w=>`<div class="wl${w.reload?' rl':''}${w.W.beam?' hb'+((w.heat||0)>.7?' hot':''):''}"><b>${w.s<0?'◀L':'R▶'}</b><span class="szb z${w.W.size}">${w.W.size}</span> ${w.W.name}<em>${w.W.beam?(w.reload?'OVERHEAT '+w.reload.toFixed(1)+'s':'HEAT '+Math.round((w.heat||0)*100)+'%'):w.reload?'RELOAD '+w.reload.toFixed(1)+'s':w.ammo+'/'+w.W.mag}</em><i style="width:${frac(w)*100}%"></i></div>`).join('');
   const all=P.ws.reduce((t,w)=>t+frac(w),0)/P.ws.length,rl=P.ws.every(w=>w.reload);gunBar.style.width=all*100+'%';gunBar.style.background=rl?'#fa4':'#ff6';ring(bMG,all,rl?'#fa48':'#f448');bMG.textContent=rl?'RELOAD':'FIRE';
   ring($('bFL'),grp(-1),'#fc48');ring($('bFR'),grp(1),'#fc48');}
  let af=1,at='',ac='#6cf';
- if(T.shield){if(P.shieldOn){af=Math.min(P.shieldT/T.shield.dur,P.shieldHP/T.shield.hp);at=`SHIELD UP ${Math.ceil(P.shieldHP)} HP · ${P.shieldT.toFixed(1)}s`;}else if(P.abCd>0){af=1-P.abCd/T.shield.cd;at=`SHIELD COOLDOWN ${P.abCd.toFixed(1)}s`;ac='#678';}else at='SHIELD READY';}
+ if(T.shield){af=P.shieldHP/T.shield.hp;if(P.shieldOn){at=P.shA>=1?`SHIELD RAISED ${Math.ceil(P.shieldHP)} HP — tap to lower`:'RAISING SHIELD…';ac='#3df';}else if(P.abCd>0){af=1-P.abCd/T.shield.cd;at=`SHIELD BROKEN ${P.abCd.toFixed(1)}s`;ac='#678';}else if(P.shieldHP<T.shield.hp*T.shield.min){at=`SHIELD RECHARGING ${Math.round(af*100)}%`;ac='#678';}else at=P.shA>0?'LOWERING…':`SHIELD READY ${Math.round(af*100)}%`;}
  else if(T.dash){if(P.abCd>0){af=1-P.abCd/T.dash.cd;at=`DASH COOLDOWN ${P.abCd.toFixed(1)}s`;ac='#678';}else at='DASH READY';}
  else if(T.jump){if(P.abCd>0){af=1-P.abCd/T.jump.cd;at=`JUMP COOLDOWN ${P.abCd.toFixed(1)}s`;ac='#678';}else at='JUMP READY';}
  else{const t=clock-P.lastHit;af=P.hp>=P.max?1:Math.min(1,t/T.regen.delay);at=P.hp>=P.max?'REGEN: FULL':(af>=1?`REGENERATING +${T.regen.rate}/s`:`REGEN IN ${(T.regen.delay-t).toFixed(1)}s`);ac=af>=1?'#6f9':'#678';}
- abBar.style.width=af*100+'%';abBar.style.background=ac;$('abt').textContent=at;ring(bAB,af,ac+'8');
+ bAB.classList.toggle('on',!!(T.shield&&P.shieldOn));bAB.textContent=T.shield?(P.shieldOn?'LOWER':'SHIELD'):bAB.textContent;abBar.style.width=af*100+'%';abBar.style.background=ac;$('abt').textContent=at;ring(bAB,af,ac+'8');
  if((hudN&3)===0&&P.alive){const ap=playerAim(),d=ap.distanceTo(P.g.position);const mr=Math.max(...P.ws.map(w=>w.W.range)),nIn=P.ws.filter(w=>d<=w.W.range).length,inR=nIn>0;rng.textContent=`${Math.round(d)}m · ${nIn}/${P.ws.length} in range (max ${mr}m)${inR?'':' OUT OF RANGE'}`;rng.style.color=inR?'#8f8':'#f66';$('xh').style.borderColor=aimOnEnemy?(inR?'#f33':'#f668'):(inR?'#fffa':'#fff6');}
  $('xh').classList.toggle('hit',hitMarkT>0);hitMarkT-=1/60;}
 // ---------- MENU ----------
@@ -754,9 +792,9 @@ function menuTick(dt){menuA+=dt*.35;if(LINEUP){for(const u of LINEUP){for(const 
 let gtab='mech',gsel=null,resetArm=false;
 const coinTag=()=>`<div class="coinbal">🪙 <b id="bal">${SAVE.coins}</b></div>`;
 const lockTag=k=>isLocked(k)?`<small class="lk">🔒 🪙${CFG.econ.locked[k]}</small>`:'';
-const wIcon=k=>({minigun:'⁂',railgun:'━',hornet:'➹',shotgun:'⋰'})[CFG.weapons[k].fam];
+const wIcon=k=>({minigun:'⁂',railgun:'━',hornet:'➹',shotgun:'⋰',laser:'≋'})[CFG.weapons[k].fam];
 const szTag=k=>{const z=CFG.weapons[k].size;return `<span class="szb z${z}">${z}</span>`;};let slotSel=0,pickSel=null;
-function wStats(w){const rate=1/w.interval,dps=w.dmg*(w.pellets||1)*rate;return `${bar('DAMAGE',w.dmg*(w.pellets||1)/230,w.dmg+(w.pellets?' ×'+w.pellets:' / hit'))}${bar('FIRE RATE',Math.min(1,rate/14),rate.toFixed(1)+' /s')}${bar('RANGE',w.range/130,w.range+' m')}${bar('DPS',dps/150,Math.round(dps))}<p class="ab">${SIZES[w.size].name} · weight ${SIZES[w.size].wt} · mag ${w.mag} · reload ${w.reload}s${w.homing?` · lock ${w.lockTime}s · splash ${w.splash}m`:''}</p>`;}
+function wStats(w){if(w.beam){const dps=w.dmg/w.interval;return `${bar('DAMAGE',dps/230,Math.round(dps)+' /s beam')}${bar('HEAT',w.heat/.4,'full in '+(1/w.heat).toFixed(1)+'s')}${bar('RANGE',w.range/130,w.range+' m')}${bar('DPS',dps/150,Math.round(dps))}<p class="ab">${SIZES[w.size].name} · weight ${SIZES[w.size].wt} · hitscan beam · cools ${Math.round(w.cool*100)}%/s · overheat lockout ${w.reload}s</p>`;}const rate=1/w.interval,dps=w.dmg*(w.pellets||1)*rate;return `${bar('DAMAGE',w.dmg*(w.pellets||1)/230,w.dmg+(w.pellets?' ×'+w.pellets:' / hit'))}${bar('FIRE RATE',Math.min(1,rate/14),rate.toFixed(1)+' /s')}${bar('RANGE',w.range/130,w.range+' m')}${bar('DPS',dps/150,Math.round(dps))}<p class="ab">${SIZES[w.size].name} · weight ${SIZES[w.size].wt} · mag ${w.mag} · reload ${w.reload}s${w.homing?` · lock ${w.lockTime}s · splash ${w.splash}m`:''}</p>`;}
 function abText(m){return m.shield?`${m.shield.hp} HP / ${m.shield.dur}s, ${m.shield.cd}s cooldown`:m.jump?`${m.jump.cd}s cooldown`:m.dash?`${m.dash.cd}s cooldown`:`+${m.regen.rate} HP/s after ${m.regen.delay}s`;}
 function buyBox(k){const c=CFG.econ.locked[k];return isLocked(k)?`<div class="buy"><span>🔒 Locked</span>${SAVE.coins>=c?`<button class="go" data-buy="${k}">UNLOCK 🪙${c}</button>`:`<button disabled>🪙${c} — need ${c-SAVE.coins} more</button>`}</div>`:'';}
 // garage stat rows: label, current, next
@@ -766,7 +804,7 @@ function mechRows(k){const L=levelsOf(k,'mech'),T=mechAt(k,L),out=[];
   out.push([s,s==='ability'?`Ability (${T.ability})`:UPS.mech[s].name,L[s],f]);}return out;}
 function wpnRows(k){const L=levelsOf(k,'wpn'),W=wpnAt(k,L),out=[];
  for(const s of Object.keys(UPS.wpn)){const n=Object.assign({},L);n[s]=Math.min(5,L[s]+1);const N=wpnAt(k,n);
-  const f=s==='dmg'?[W.dmg,N.dmg,W.pellets?' ×'+W.pellets:' /hit']:s==='rate'?[(1/W.interval).toFixed(1),(1/N.interval).toFixed(1),' /s']:s==='reload'?[W.reload,N.reload,'s reload']:W.homing?[W.lockTime,N.lockTime,'s lock']:[W.range,N.range,' m'];
+  const f=s==='dmg'?[W.dmg,N.dmg,W.pellets?' ×'+W.pellets:' /hit']:s==='rate'?[(1/W.interval).toFixed(1),(1/N.interval).toFixed(1),' /s']:s==='reload'?[W.reload,N.reload,W.beam?'s overheat':'s reload']:W.homing?[W.lockTime,N.lockTime,'s lock']:[W.range,N.range,' m'];
   out.push([s,s==='range'&&W.homing?'Lock time':UPS.wpn[s].name,L[s],f]);}return out;}
 function garage(){const Ms=CFG.mechs,Ws=CFG.weapons;let h=`<div class="gh"><h2>GARAGE</h2>${coinTag()}</div><div class="tabs">`+[['mech','MECHS'],['wpn','WEAPONS'],['paint','PAINT']].map(([k,n])=>`<button data-gtab="${k}" class="${gtab===k?'on':''}">${n}</button>`).join('')+`</div>`;
  const list=gtab==='wpn'?Ws:Ms;if(!list[gsel])gsel=gtab==='wpn'?slotsOf(loadout.mech)[0]:loadout.mech;
@@ -822,7 +860,7 @@ menu.addEventListener('click',menuClick);
 $('again').addEventListener('click',()=>newGame());$('tomenu').addEventListener('click',()=>goMenu());
 loadMap('arena',7);setGfx(settings.gfx);goMenu();requestAnimationFrame(loop);
 window.__game={THREE_V:THREE.Vector3,hurt,STATS,C,cam,obst,obstMeshes,BASES,CFG,get U(){return U},get E(){return foes('b')},get P(){return P},get B(){return B},get mode(){return mode},get fps(){return fps},get SPEC(){return SPEC},get settings(){return settings},
- ability:()=>ability(P),newGame,goMenu,setGfx,get loadout(){return loadout},setLoadout:(m,w)=>{loadout.mech=m;loadout.slots[m]=CFG.slots[m].map(sl=>adapt(w,sl,false));},setSlots:(m,a)=>{loadout.mech=m;loadout.slots[m]=a.slice();},slotsOf:t=>slotsOf(t),SIZES,menu:st=>{menuStep=st;renderMenu();},slot:i=>{slotSel=i;pickSel=null;renderMenu();},
+ ability:()=>ability(P),abilityU:u=>ability(u),blocked:(x,z,r,y)=>blocked(x,z,r,y),groundAt:(x,z,y)=>groundAt(x,z,y),get A(){return A},newGame,goMenu,setGfx,get loadout(){return loadout},setLoadout:(m,w)=>{loadout.mech=m;loadout.slots[m]=CFG.slots[m].map(sl=>adapt(w,sl,false));},setSlots:(m,a)=>{loadout.mech=m;loadout.slots[m]=a.slice();},slotsOf:t=>slotsOf(t),SIZES,menu:st=>{menuStep=st;renderMenu();},slot:i=>{slotSel=i;pickSel=null;renderMenu();},
  startMatch:(md,df,mp)=>{settings.mode=md;if(df)settings.diff=df;if(mp)settings.map=mp;newGame();},MAPS,get mapKey(){return mapKey},loadMap,setBaseProg:(t,v)=>{BASES[t].prog=v;},
  killTeam:t=>{for(const u of U)if(u.team===t&&u.alive)hurt(u,1e6,null,null);},killUnit:u=>hurt(u,1e6,null,null),get SAVE(){return SAVE},buyUp,buyUnlock,buyPaint,resetProgress,upMech,upWpn,get reward(){return LAST_REWARD},lineup:(w)=>{if(P){S.remove(P.g);P=null;}if(LINEUP)LINEUP.forEach(u=>S.remove(u.g));LINEUP=['guardian','strider','mender','phantom'].map((k,i)=>{const u=makeUnit('b',k,w||CFG.defSlots[k],null);u.g.position.set(-10.5+i*7,0,48);u.tYaw=u.legYaw=u.yaw=Math.PI*0.82;initFeet(u);animMech(u,.016);return u;});},renderMenu,go:s=>{menuStep=s;renderMenu();}};
 // barrel convergence: rotate each gun pivot so its +Z points at the aim point
@@ -837,7 +875,7 @@ const _mn=new THREE.Vector3(),_mx=new THREE.Vector3();
 function sweep(o,d,L,owner){let best=null;const H=CFG.hitbox;
  if(d.y<0){const tg=-o.y/d.y;if(tg>=0&&tg<=L)best={t:tg,u:null};}
  for(const ob of obst){_mn.set(ob.x-ob.hx,-1,ob.z-ob.hz);_mx.set(ob.x+ob.hx,ob.h,ob.z+ob.hz);const t=rayBox(o,d,_mn,_mx,L);if(t>=0&&(!best||t<best.t))best={t,u:null};}
- for(const u of foes(owner)){const q=u.g.position,r=u.shieldOn?H.shield:H.hx;_mn.set(q.x-r,q.y+H.y0,q.z-r);_mx.set(q.x+r,q.y+H.y1,q.z+r);const t=rayBox(o,d,_mn,_mx,L);if(t>=0&&(!best||t<best.t))best={t,u};}
+ for(const u of foes(owner)){const q=u.g.position,r=u.shieldOn&&u.shA>=1?H.shield:H.hx;_mn.set(q.x-r,q.y+H.y0,q.z-r);_mx.set(q.x+r,q.y+H.y1,q.z+r);const t=rayBox(o,d,_mn,_mx,L);if(t>=0&&(!best||t<best.t))best={t,u};}
  if(!best){const e=o.clone().addScaledVector(d,L);if(Math.abs(e.x)>A||Math.abs(e.z)>A)best={t:L,u:null};}
  return best;}
 const beamG=new THREE.BoxGeometry(.12,.12,1);

diff --git a/index.html b/index.html
@@ -31,6 +31,8 @@ b.zS,b.zM,b.zL{padding:0 3px;border-radius:3px}
 .cards.wl .card.eq{box-shadow:inset 0 0 0 2px #6f9}
 #bMG{right:40px;bottom:50px;width:120px;height:120px;font-size:18px}
 #bAB{right:180px;bottom:40px;width:90px;height:90px;border-color:#6cf}
+#bAB.on{background:#3df5;border-color:#3df;box-shadow:0 0 18px #3df;color:#fff}
+.wl.hb i{background:#f55!important}.wl.hot em{color:#f66}
 #bAB.passive{opacity:.75;border-style:dashed;border-color:#6f9}
 #bRL{right:22px;bottom:205px;width:60px;height:60px;background:#48f3;border-color:#8af}
 #aim{position:absolute;right:0;top:0;width:55%;height:100%;pointer-events:auto}
@@ -95,4 +97,4 @@ b.zS,b.zM,b.zL{padding:0 3px;border-radius:3px}
 <div id="hint">WASD move · mouse aim (click to lock) · LMB/F fire · E/Shift/Space/RMB ability · R reload</div>
 <div id="menu"><div id="mc"></div></div>
 <div id="msg"><div id="mt"></div><div id="mm"></div><small id="ml"></small><div id="mk"></div><div id="coins"></div><button class="mb" id="again">PLAY AGAIN</button><button class="mb alt" id="tomenu">MAIN MENU</button></div>
-<script type="module" src="game.js?v=13"></script></body></html>
+<script type="module" src="game.js?v=14"></script></body></html>
